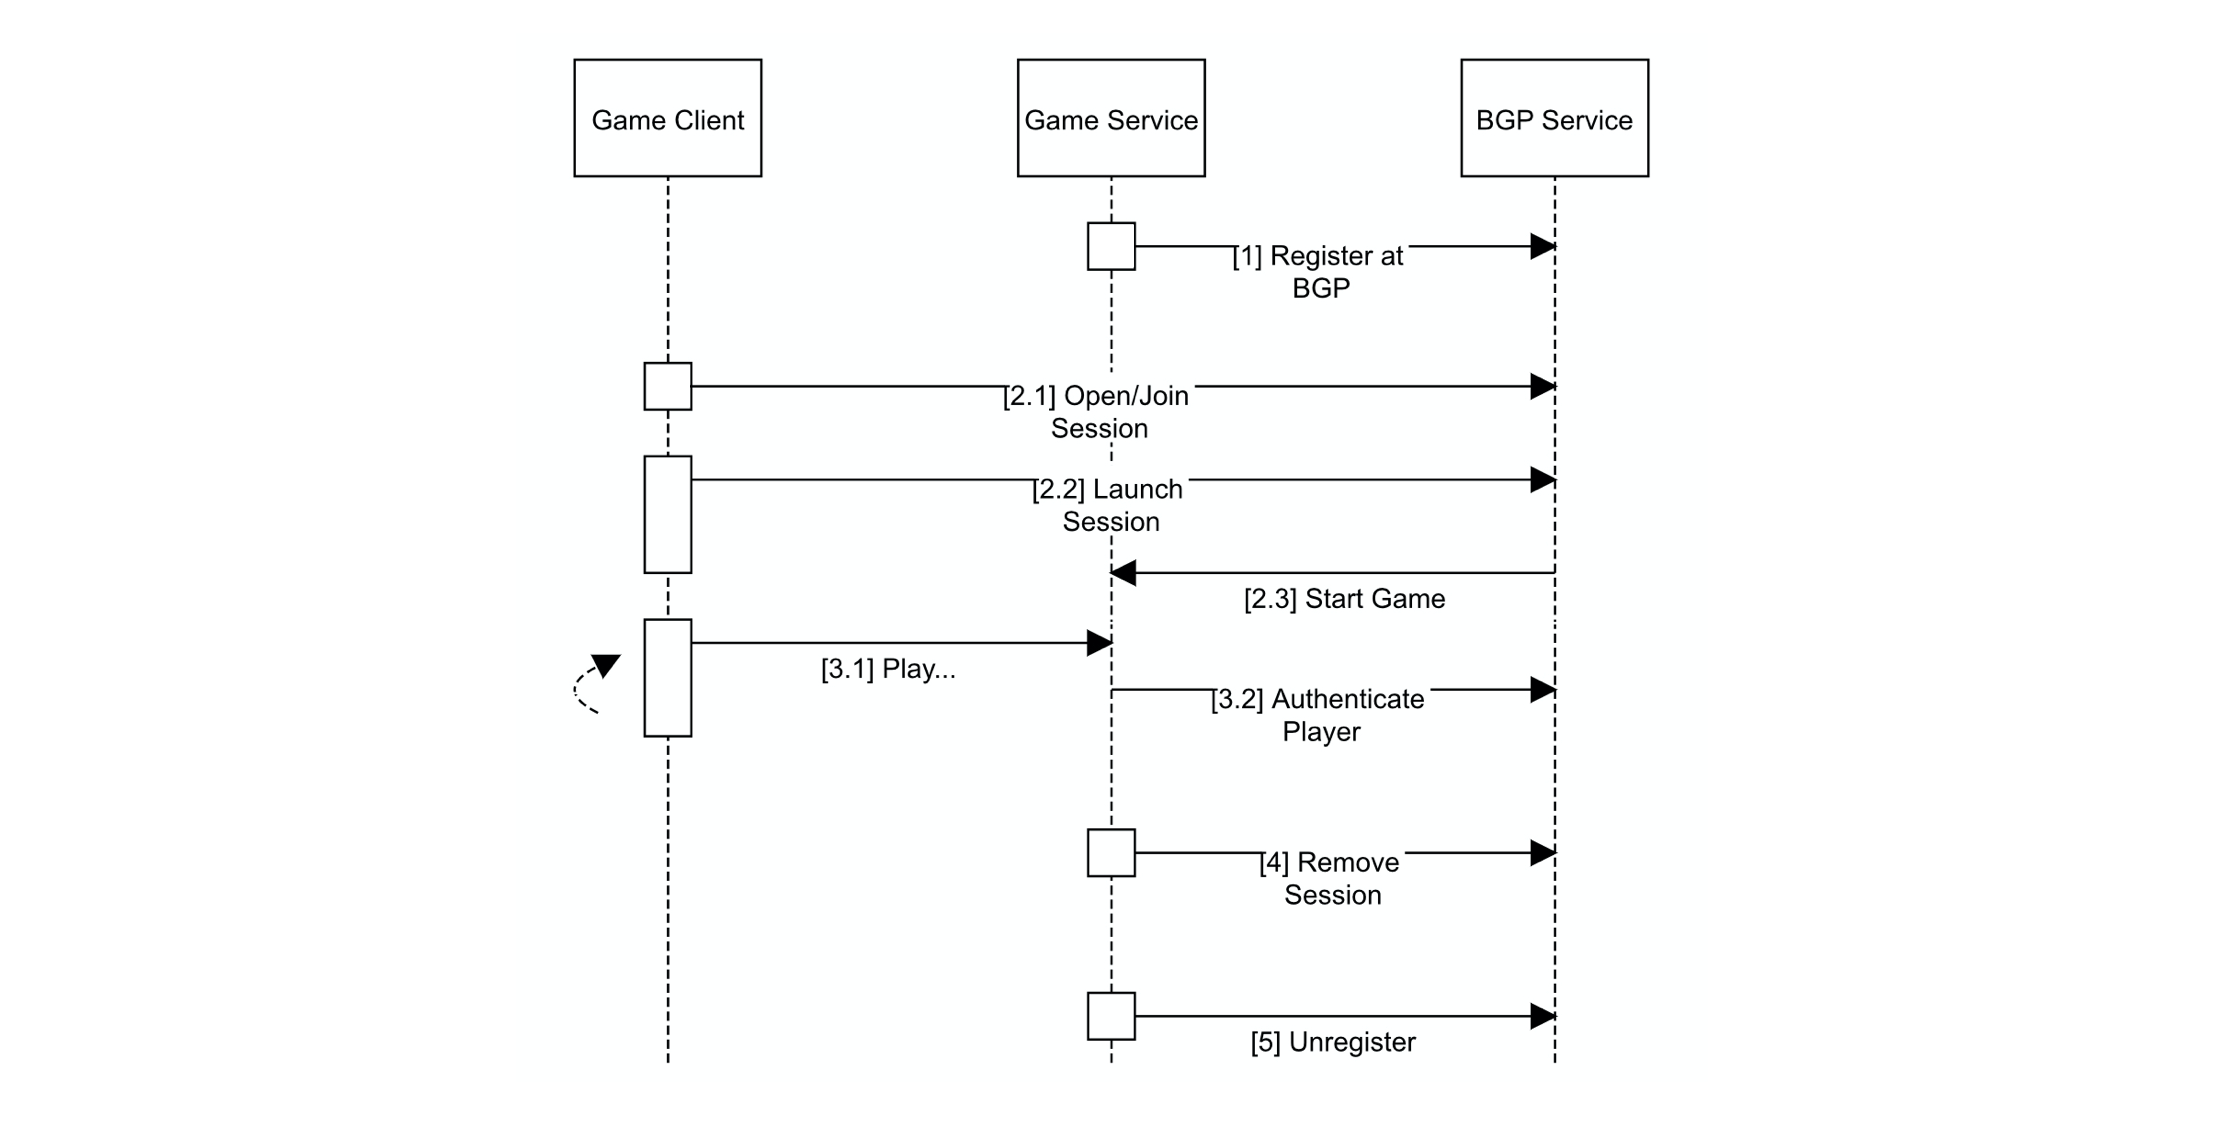
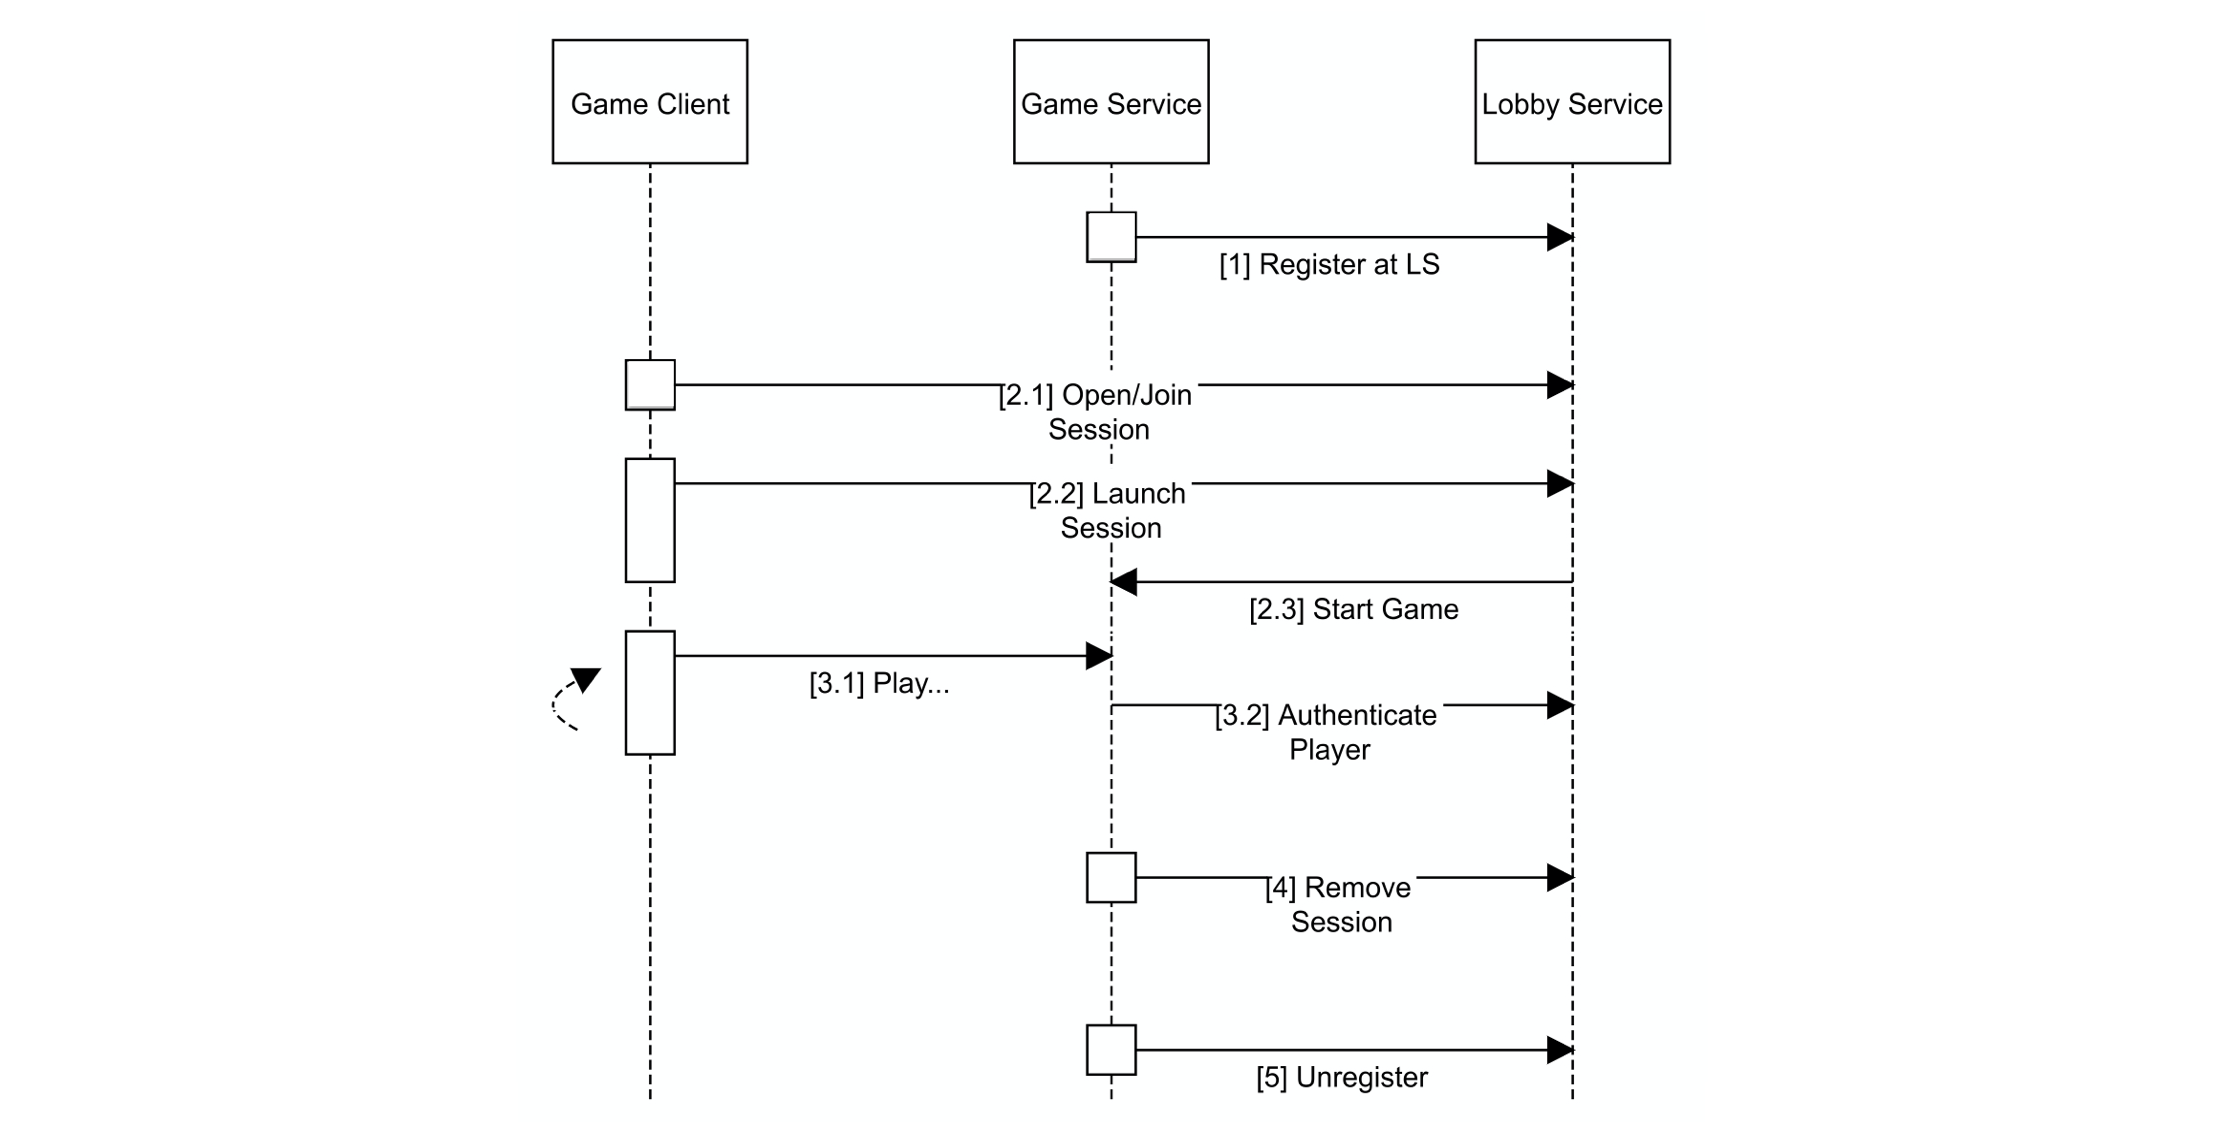
replaced traces of previous namings

diff --git a/README.md b/README.md
@@ -36,7 +36,7 @@ This repository is structured as follows
 
  * Dockerfiles / Docker-compose files: ```/```
  * LS-backend sources: ```/src```
- * Unit tests are located at ```/unit-tests/bgp-units-*```  
+ * Unit tests are located at ```/unit-tests/ls-units-*```  
 There is a total of 344 tests/assertions that fully covers the [services REST API](markdown/api.md#user-content-rif-overview).
  * Sample Game-Server for callbacks: ```/units/GameServerStub```
  * Documentation: ```/markdown```
